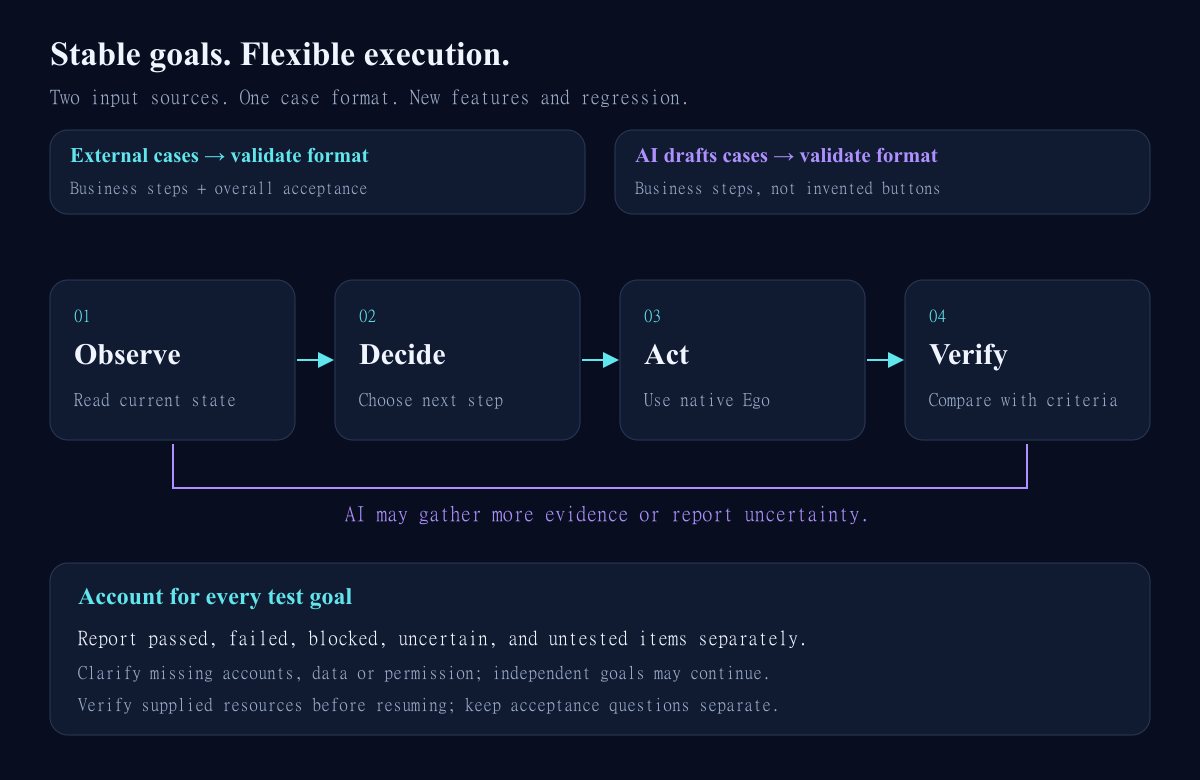
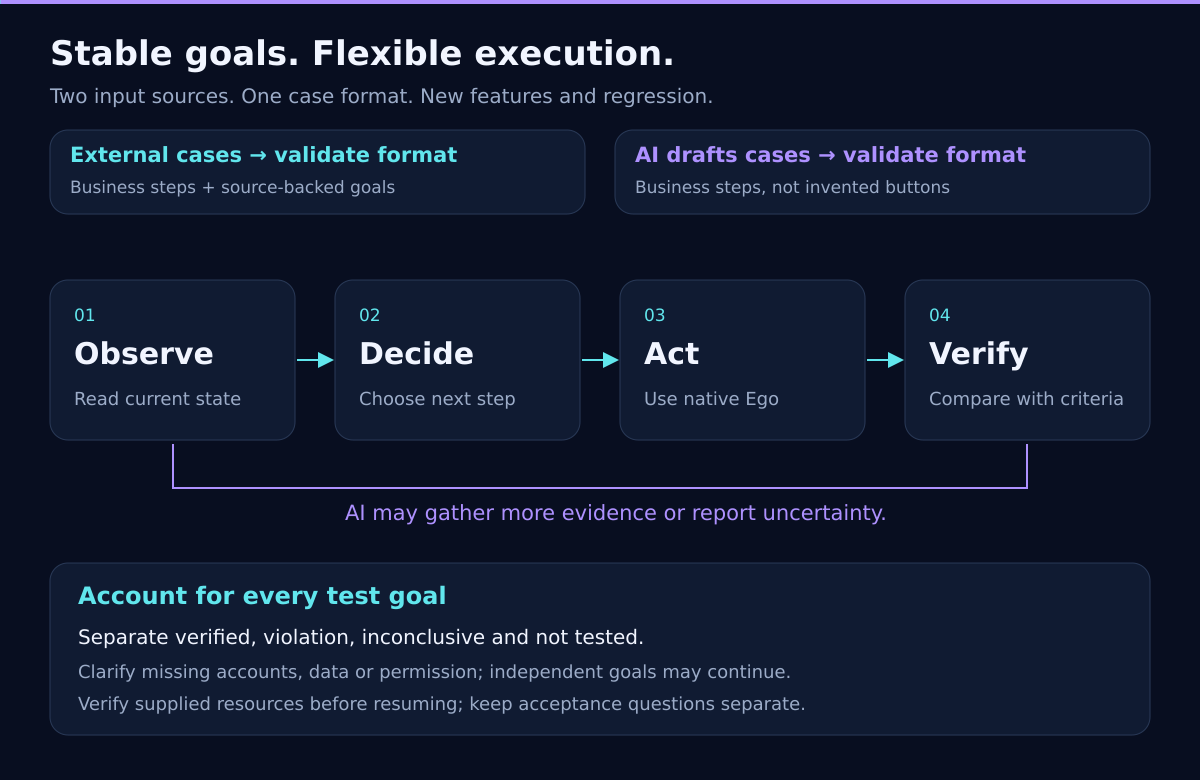
docs(v0.1.6): restore README diagrams and guard documentation navigation

diff --git a/README.en.md b/README.en.md
@@ -13,6 +13,12 @@
 
 Invoke `$ai-autonomous-testing-ego-lite`. Complete packages include Skill guidance, compiled Node ESM tools, schemas, examples and an integrity manifest. Source is TypeScript; installed use requires Node.js >=22.
 
+## Version evolution
+
+![Latest four versions: v0.1.3 to v0.1.6, all released. Capability illustration only.](docs/images/readme-version-history.png)
+
+README shows the latest release plus three previous versions. [Full version history](docs/version-history.en.md) retains older releases; v0.1.7 remains a plan.
+
 ## What changed
 
 - Stage-specific design and execution experience: concise indexes, concrete scenarios and human-maintained, read-only guidance. AI retains method selection within goals and authorization.
@@ -27,6 +33,8 @@ All current test-asset JSON contracts use **schemaVersion 5**, and execution que
 
 ## Cases, evidence and delivery
 
+![AI adapts the method while preserving business goals and four explicit outcomes.](docs/images/workflow.png)
+
 Before freezing, the AI maps each expectation to sources, prerequisites, actions and observation methods. Different role/data dependencies can be assessed separately without dropping workflow dependencies. Acceptance ambiguity belongs to goal.clarificationQuestions; actual resource and authorization gaps require real clarification. User-deferred goals remain visible. Do not expand acceptance scope after execution to justify a result.
 
 Successful tool calls do not prove business success. Key UI findings require real screenshots, with AI-selected capture timing. DOM, logs and action receipts supplement images. Submission, drag, context and download uncertainty can benefit from targeted observations; capabilities must be verified against the current Ego version. A method name or timeout is not proof of a browser defect.
@@ -34,6 +42,8 @@ Successful tool calls do not prove business success. Key UI findings require rea
 Default deliverables are standalone HTML, JSON and Markdown from one result projection. Reports expose expectations, observations, evidence, gaps, diagnosis and history. Screenshot gaps, record completeness and file integrity remain distinct. Hash consistency does not establish business correctness; file verification and actual browser opening are separate.
 
 Network observation implements the v3 design through network start/status/query/stop: a dedicated native context records scoped Fetch/XHR, SSE and WebSocket evidence; the AI chooses queries, evidence and business judgments. It never replays business requests. Network data uses independent networkVersion 1, while the v5 business contracts remain. See [observation guidance (Chinese)](skills/ai-autonomous-testing-ego-lite/references/network-observation.md).
+
+![Illustrative evidence presentation, not a real test report.](docs/images/result-specimen.png)
 
 ## Quick start on Windows
 
@@ -76,9 +86,16 @@ Reports refuse overwrite; use a new directory for later reports. browserOpen:not
 
 ## Responsibilities and limits
 
+![AI decides, Ego operates, and the toolbox records evidence and generates reports.](docs/images/architecture.png)
+
+The diagram summarizes responsibilities; v0.1.6 also includes the scoped native network collector described below.
+
 AI owns planning, authorized operation and judgment. Ego supplies supported browser primitives. Local tools own freezing, records, references, revisions, evidence-file checks and reports; they do not call models, decide bugs or retry business writes. Network observation starts a scoped Ego native collector; business UI actions remain AI-driven. Space separation is not account/backend isolation. File transactions are not a general multi-file or power-loss guarantee. Registration does not redact evidence. Keep credentials, real sites, screenshots and run data private and outside the repository; do not auto-upload reports. See [privacy](docs/privacy.md).
 
 ## Further reading
+
+- [Full version history](docs/version-history.en.md), [historical requirements](docs/requirements.md), [v0.1.5 naming and upgrade history (Chinese)](docs/rename-upgrade.md)
+- [Design experience](skills/ai-autonomous-testing-ego-lite/references/case-design-guide.md), [execution experience](skills/ai-autonomous-testing-ego-lite/references/experience-guide.md), [network observation](skills/ai-autonomous-testing-ego-lite/references/network-observation.md) (Chinese)
 
 - [Skill](skills/ai-autonomous-testing-ego-lite/SKILL.md), [case design](skills/ai-autonomous-testing-ego-lite/references/case-authoring.md), [judgment](skills/ai-autonomous-testing-ego-lite/references/judgment-and-diagnosis.md)
 - [Architecture](docs/architecture.en.md), [formats](docs/asset-formats.en.md), [validation](docs/testing.en.md), [changelog](CHANGELOG.md)
@@ -101,6 +118,8 @@ Report bugs or suggest improvements through [GitHub Issues](https://github.com/9
 Original code and documentation in this repository are licensed under the [MIT License](LICENSE), copyright 2026 99Like-wjj. This license does not cover Ego, Ego's official browser, or other third-party software; their own licenses and official terms continue to apply. This is an independent project, not affiliated with or endorsed by Ego. The source is available under the MIT License. Development is ongoing; refer to each release's notes for its capabilities and validation scope.
 
 ## Configurable concurrency
+
+![Independent workers capture evidence; the coordinator reviews and imports their packets.](docs/images/parallel.svg)
 
 Repair commit 8e6e2d9 is integrated while retaining v5 goal assessment and the API-monitoring design. Hosts own real workers, context, permissions, waiting and cleanup; this package adds no fixed host dispatcher. Read [host conditions and handoff (Chinese)](skills/ai-autonomous-testing-ego-lite/references/host-compatibility.md). Codex uses $ai-autonomous-testing-ego-lite; Claude Code uses /ai-autonomous-testing-ego-lite. Complete live host workflows still need separate acceptance. See the [integration record](docs/v0.1.6-cross-host-integration.md).
 

diff --git a/README.md b/README.md
@@ -12,6 +12,12 @@
 
 Skill 标识为 `ai-autonomous-testing-ego-lite`，显式调用 `$ai-autonomous-testing-ego-lite`。完整包提供 Skill、指南、Node ESM 工具、schema、示例和文件清单。源码维护 TypeScript，安装使用 Node.js >=22。
 
+## 版本演变
+
+![最近四版：v0.1.3、v0.1.4、v0.1.5、v0.1.6，均为正式版。图为能力示意，非测试截图。](docs/images/readme-version-history.zh-CN.png)
+
+README 仅展示最新正式版本与前三个历史版本；更早版本继续保留在[完整版本演变](docs/version-history.md)中。v0.1.7 为计划，不计入已发布四版。
+
 ## 本次改进
 
 - **按阶段使用测试经验。** 用例设计与执行经验分别提供简短入口、主题索引和具体场景，帮助 AI 核对覆盖、前提、证据和误判风险。经验由人工维护、运行时只读，AI 根据目标与授权选择方法。
@@ -26,6 +32,8 @@ Skill 标识为 `ai-autonomous-testing-ego-lite`，显式调用 `$ai-autonomous-
 
 ## 用例与证据
 
+![AI 按业务目标自主选择方法，逐目标说明四态与证据。](docs/images/workflow.zh-CN.png)
+
 冻结前，AI 核对每个 goal 的来源、前提、动作和观察方式；不同身份或数据依赖可分别表达，必要连续流程仍保留。验收歧义放在目标 clarificationQuestions，实际资源或授权缺口通过真实问答解决；用户明确暂缓的目标继续保留。不能在执行结束时临时扩大已有目标的验收范围。
 
 工具操作成功不代表业务结果成功。关键 UI 结果与缺陷必须有真实页面截图，AI 自主选择取证时机，DOM/日志/动作回执补充截图。下载、拖动、上下文和提交异常可按需查有区分力的观察，具体 Ego 能力仍须以当次安装版本和实际验证为据；能力名称或一次超时不能证明浏览器缺陷。
@@ -33,6 +41,8 @@ Skill 标识为 `ai-autonomous-testing-ego-lite`，显式调用 `$ai-autonomous-
 默认交付独立 HTML、JSON、Markdown。报告显示目标预期、观察、证据、缺口、根因确认程度和历史；三种格式共享统计。缺图与文件完整性单独展示，哈希一致不证明业务判断正确。文件校验与实际浏览器打开分别验证。
 
 接口观测按最终设计 v3 实现：network start/status/query/stop 通过独立 native 上下文自动记录已授权顶层页面的 Fetch/XHR、SSE 及 WebSocket 正文。AI 按需查询、选择证据并自主判断；不强制每步查询，不重发业务请求。网络格式独立为 networkVersion 1，v5 结果契约保持。内容策略、容量、停止/恢复及来源限制见[接口观测指南](skills/ai-autonomous-testing-ego-lite/references/network-observation.md)。
+
+![报告内容示意：预期、观察、证据与未覆盖范围；不是实际测试报告截图。](docs/images/result-specimen.zh-CN.png)
 
 ## Windows 快速开始
 
@@ -80,6 +90,10 @@ node ABS_TOOL verify-report --run-dir ABS_RUN --report-dir ABS_REPORT_DIR
 
 ## 责任与限制
 
+![职责分工：AI 理解与判断，Ego 操作浏览器，工具箱登记证据与生成报告。](docs/images/architecture.zh-CN.png)
+
+图示为职责概览；v0.1.6 另有按授权启用的独立 native 接口采集组件，具体边界见下文。
+
 | 部分 | 负责 |
 | --- | --- |
 | 当前 AI | 理解目标、选择测试与观察、操作获授权浏览器、审阅业务结论 |
@@ -100,6 +114,9 @@ node ABS_TOOL verify-report --run-dir ABS_RUN --report-dir ABS_REPORT_DIR
 详细范围及验收方向见 [v0.1.7 版本前瞻](docs/v0.1.7-preview.md)。具体实现、阈值和排期仍待设计与审核；本轮不发布 v0.1.7。
 
 ## 继续阅读
+
+- [完整版本演变](docs/version-history.md)、[历史需求与调研](docs/requirements.md)、[v0.1.5 更名历史与升级说明](docs/rename-upgrade.md)
+- [用例设计经验入口](skills/ai-autonomous-testing-ego-lite/references/case-design-guide.md)、[执行经验入口](skills/ai-autonomous-testing-ego-lite/references/experience-guide.md)、[接口观测指南](skills/ai-autonomous-testing-ego-lite/references/network-observation.md)
 
 - [Skill](skills/ai-autonomous-testing-ego-lite/SKILL.md)、[用例生成](skills/ai-autonomous-testing-ego-lite/references/case-authoring.md)、[判断与归因](skills/ai-autonomous-testing-ego-lite/references/judgment-and-diagnosis.md)
 - [架构](docs/architecture.md)、[格式](docs/asset-formats.md)、[验证状态](docs/testing.md)、[更新记录](CHANGELOG.md)
@@ -122,6 +139,8 @@ node ABS_TOOL verify-report --run-dir ABS_RUN --report-dir ABS_REPORT_DIR
 本仓库原创代码和文档按 [MIT License](LICENSE) 授权，版权声明为 2026 99Like-wjj。此许可不覆盖 Ego、Ego 官方浏览器或其他第三方软件；它们仍受各自许可和官方条款约束。本项目非 Ego 官方项目，未获其背书。源码按 MIT 许可开放；项目仍在持续开发，具体版本能力与验证范围以对应版本说明为准。
 
 ## 并发配置与开发
+
+![独立用例 worker 留证封包，协调者复核后汇总；默认串行，显式配置后安排并发。](docs/images/parallel.zh-CN.svg)
 
 已整合跨宿主修复提交 8e6e2d9，当前保留 v5 目标评估与监控设计。宿主负责真实子 Agent 的创建、上下文、权限、等待和收尾；本工具不提供固定宿主调度器。跨终端执行前参阅[宿主条件与交接](skills/ai-autonomous-testing-ego-lite/references/host-compatibility.md)。Codex 使用 $ai-autonomous-testing-ego-lite，Claude Code 使用 /ai-autonomous-testing-ego-lite；各宿主完整真实链路仍须分别验收。整合验证见[记录](docs/v0.1.6-cross-host-integration.md)。
 

diff --git a/docs/v0.1.6-documentation-repair.md b/docs/v0.1.6-documentation-repair.md
@@ -1,0 +1,30 @@
+# v0.1.6 发布后文档展示修复
+
+## 核对范围
+
+2026-10-29，对照 v0.1.5 Tag、v0.1.6 开发提交及正式发布提交 faa6bd7，检查中英文 README、文档文件清单、导航及图片引用，并复核架构、资产格式、证据与报告说明的主要删除段落。
+
+## 发现与修复
+
+- f239e4e 重写 README 时移除了版本演变、并发、测试流程、报告示意及职责架构五类图片引用；图片文件仍在。恢复中英文 README 的对应展示位置。
+- README 专用四版本图仍把 v0.1.6 标为开发中。更新为正式版，补充经验、目标评估与接口观测；仅展示 v0.1.3 至 v0.1.6。v0.1.7 仍为计划，不提前计入已发布版本。
+- 首页横幅仍标 v0.1.5，已同步为 v0.1.6，并保留验证范围限定。
+- 恢复完整版本演变、历史需求与更名历史的导航，补充现有设计经验、执行经验及接口观测的直接入口。更名文档明确标为 v0.1.5 历史，不作为 v0.1.6 格式说明。
+- 恢复流程图时将旧的“整体验收目标”和旧状态表述更新为有依据的独立目标与四态，避免展示已过时契约。架构图作为职责概览使用，旁注明新增 native 接口采集边界。
+- 将 README 展示保留要求加入发布审核清单，并增加回归测试，检查双语图片引用、历史导航、最新四版和正式状态。
+
+## 未恢复的旧内容
+
+v0.1.5 至本次修复基线之间没有整份 Markdown 文档被删除，主要是正文重写及 README 导航和图片展示遗漏。旧 schema v3/v4、legacy report 源码的删除属于已明确采用 v5、不兼容旧格式的设计，不能作为误删恢复。旧的 case 级状态、每步 expected、旧 JSON 请求示例等也不恢复到当前入口。
+
+完整历史图及版本历史文档保留，不按 README 的四版窗口截断。当前架构和格式文档保留 v5 与接口观测说明；证据、幂等、单写者、历史、隐私和报告拒绝覆盖等核心限制仍存在于现行正文或配套指南。这次核对不宣称所有历史段落均逐字保留，也不把文字缩写自动认定为误删。
+
+## 验证
+
+- TypeScript 类型检查通过。
+- public publication 检查通过，现有 Markdown 相对链接及恢复资源路径有效。
+- 全量测试 117 项：116 通过、0 失败、1 跳过。跳过项为 Windows 专属 checkpoint replacement，在当前 Linux 环境未执行。
+- 双语图片生成器可复现 SVG；六张更新后的 PNG 已逐张视觉检查，包含双语横幅、流程与四版本图。
+- 原版本完整历史图未修改，运行逻辑、JSON 契约与用户安装未修改。
+
+此为发布后的文档提交，不移动 v0.1.6 Tag，不替换已发布安装包，也不创建 v0.1.7 Release。最新仓库 README 与该 Tag 内的历史文件会有这一文档修复差异。

diff --git a/AGENTS.md b/AGENTS.md
@@ -31,6 +31,7 @@
 ## 正式版本发布
 
 - 正式版本须由不可移动的版本 Tag 指向精确提交，并对应 GitHub Release；发布说明以中文为主，写明新增/修复、格式变化及升级影响、验证范围和已知限制。
+- 发布或重写文档时，对照上一正式版检查正文、导航和图片引用；README 的版本演变图只展示最新版本与前三个历史版本，完整历史不删。中英文同步核对图片内的版本、发布状态和契约术语；仍适用的流程、架构、并发和报告示意不得无说明丢失。
 - 同步核对版本号、CHANGELOG、README 和实际产物。提供包含所需 Skill、脚本、模板与说明的可用安装包及校验值；源码 ZIP 不等同于已配置好的安装包。发布包交付前检查不含 token、key 或真实项目资产。
 - v0.1.3 只有在用户本地能力验收通过后才可创建 Release；云端分支验证不替代本地验收。
 - 开发版不能冒充正式版；必要时使用 rc 预发布标识。不得移动既有版本 Tag 来替换其内容。
